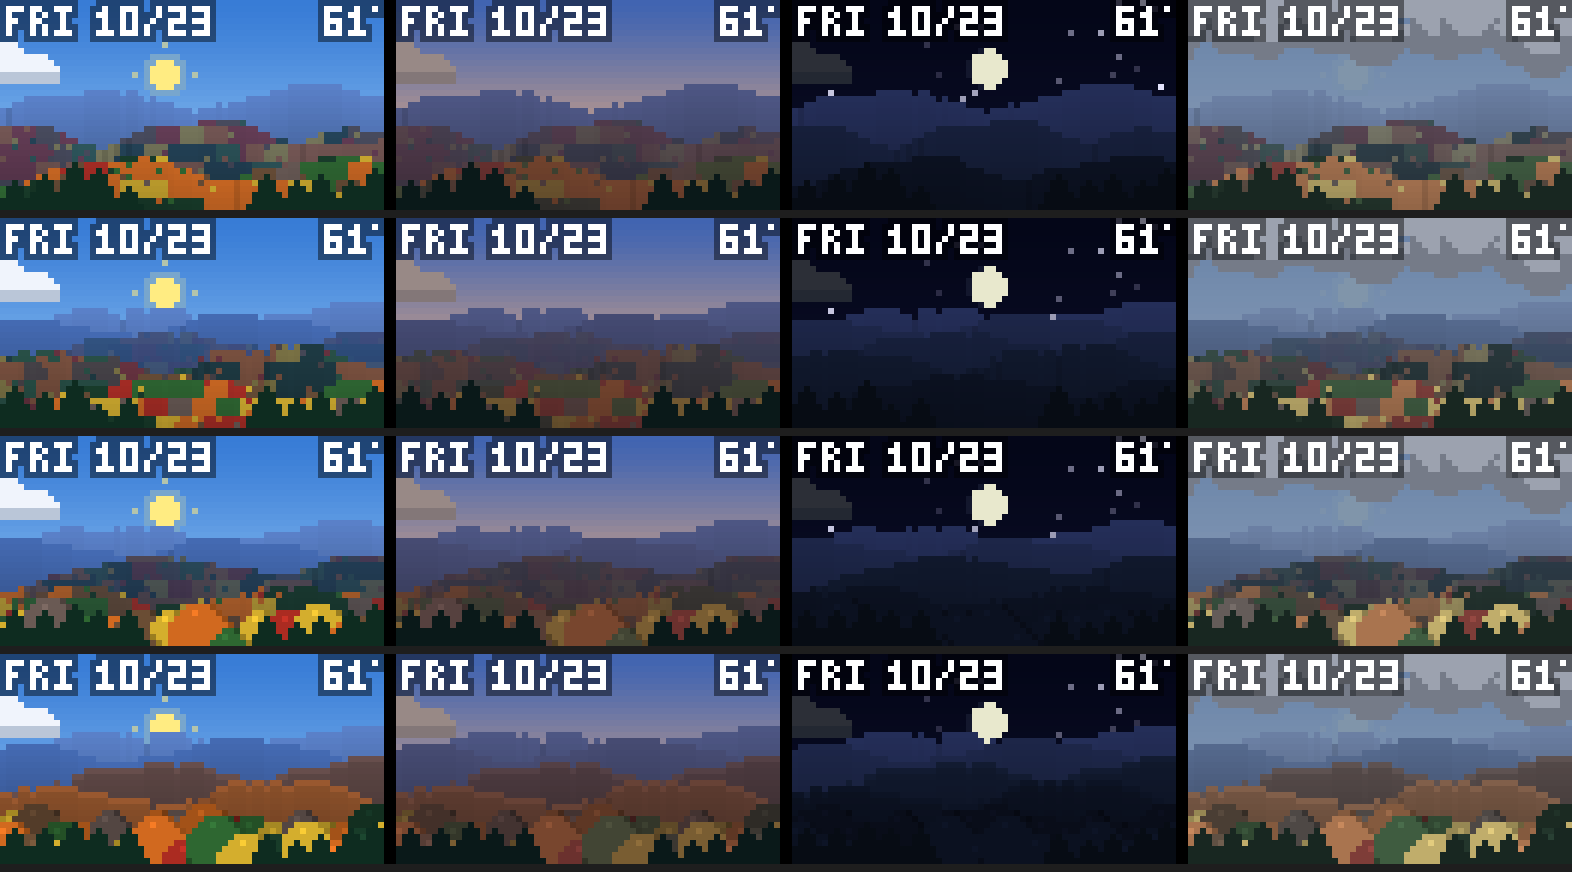
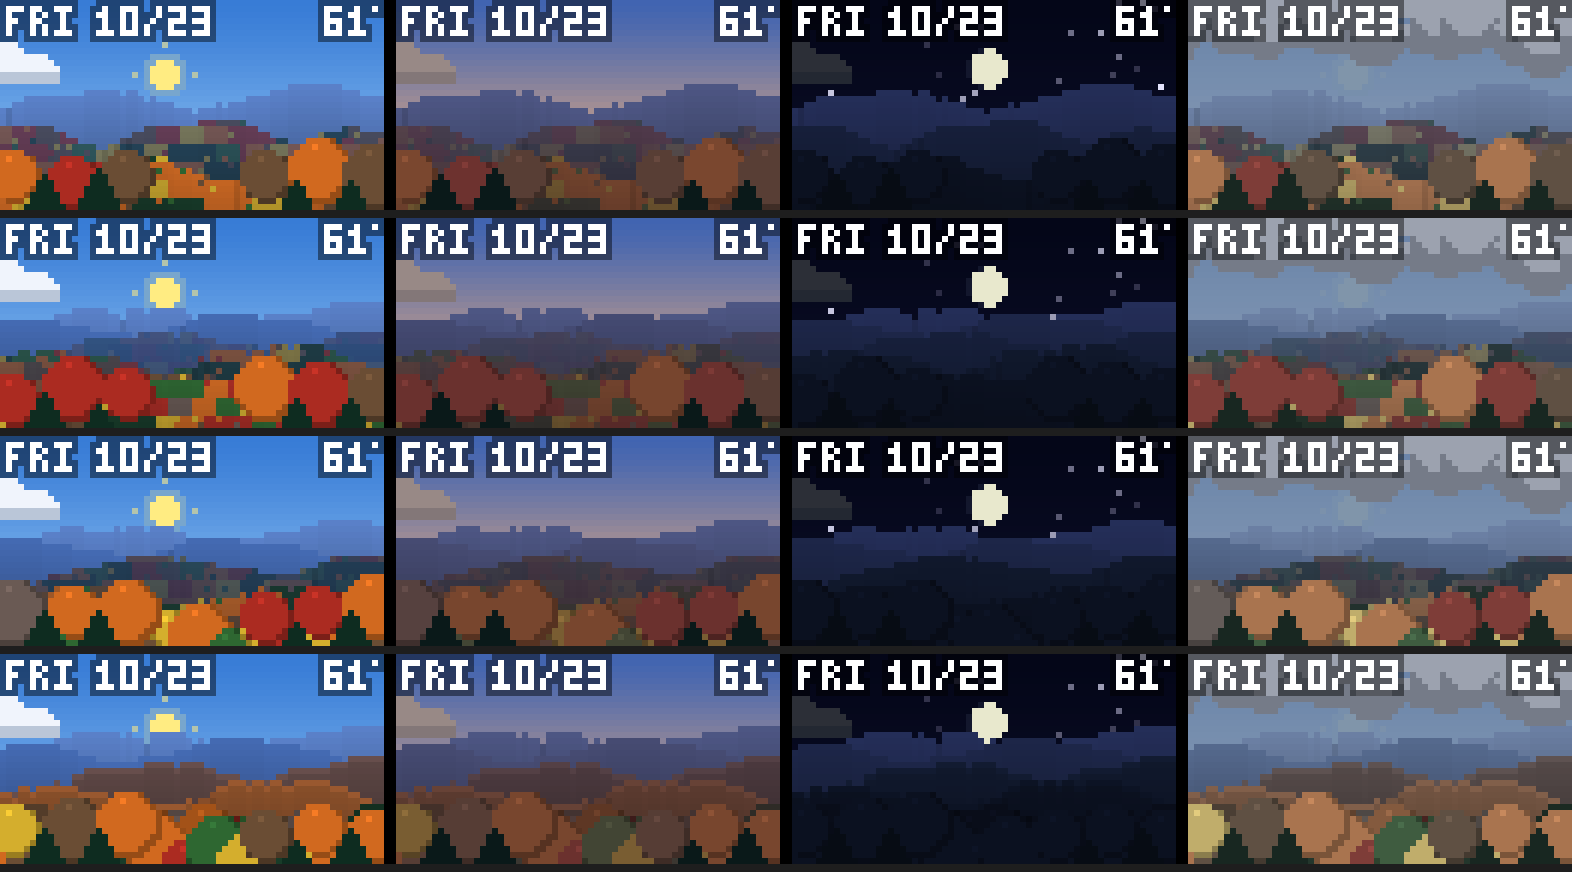
Turn six of the ten edge pines into seasonal deciduous trees

diff --git a/src/matrix_display/scene/mountains.py b/src/matrix_display/scene/mountains.py
@@ -42,6 +42,7 @@ STYLES = {
 }
 STYLE = "layered"
 _PINES_X = (2, 7, 12, 16, 21, 44, 49, 53, 58, 62)
+_PINES_KEPT = (1, 3, 6, 8)      # indices into _PINES_X that stay evergreen
 _PINE_WIDTHS = (1, 3, 3, 5, 5, 7, 7, 9)
 _PINE_BASE = 34
 
@@ -123,6 +124,11 @@ def _shapes(style: str):
         for k, x in enumerate(range(-2 + 3 * row, W + 3, step)):
             blobs.append((x, cy + rng.randint(-1, 2), rng.randint(3, rmax),
                           (k * 0.37 + row * 0.5 + rng.random() * 0.25) % 1, bright))
+    for k, (x, h, base) in list(enumerate(pines)):
+        if k not in _PINES_KEPT:               # the rest become deciduous trees that turn with the season
+            r = rng.randint(4, 5)
+            blobs.append((x, 34 - r + rng.randint(-1, 0), r, rng.uniform(0.4, 1.0), 1.0))
+    pines = [pines[k] for k in _PINES_KEPT]
     return ridges, pines, blobs
 
 
